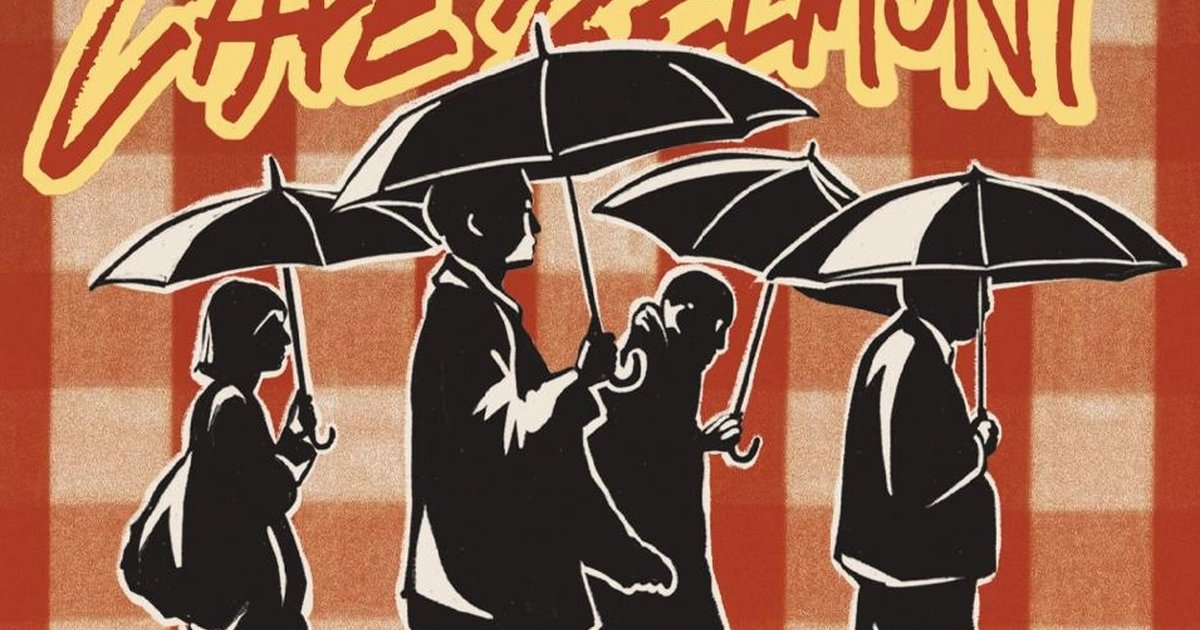
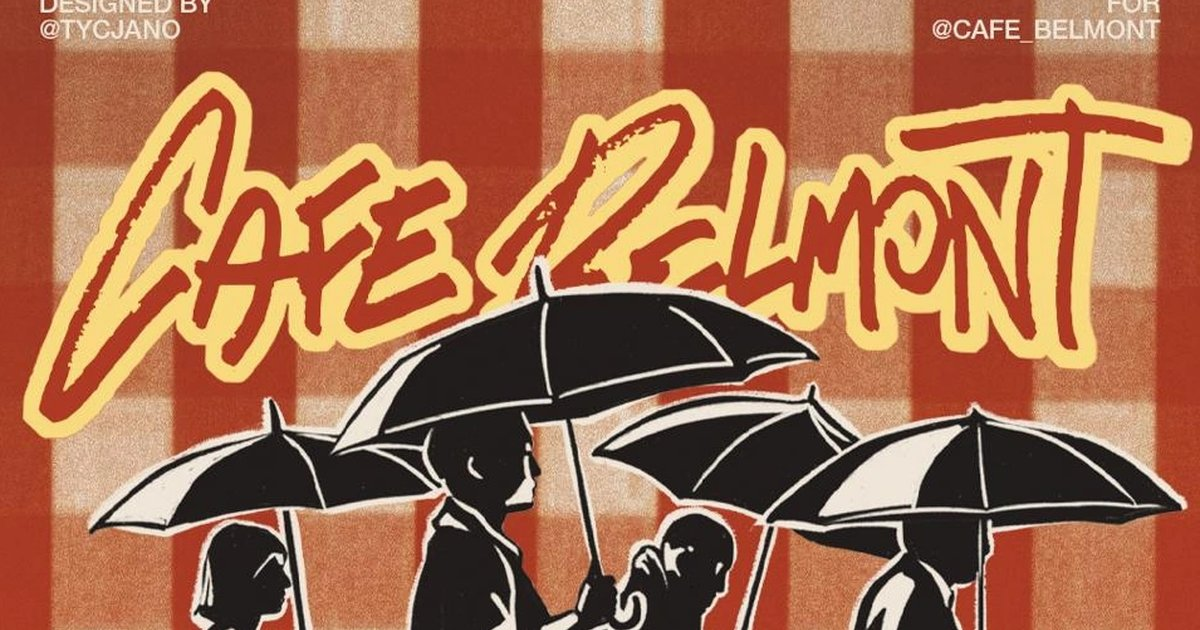
Hero: kwadratowy kadr (napis Café Belmont widoczny), OG od góry; alty zdjęć z sesji z nazwami menu jesiennego

diff --git a/app/copy.ts b/app/copy.ts
@@ -126,26 +126,26 @@ const G = '/images/gallery/';
 const GALLERY_PL = [
   { src: G + 'counter-sign-pour.webp', alt: 'Barista nalewa mleko do matcha latte za ladą Café Belmont, nad nim czerwony napis Café Belmont' },
   { src: G + 'matcha-pour-board.webp', alt: 'Świeżo ubita matcha Yume przelewana z czarki do szklanki, obok bambusowy chasen' },
-  { src: G + 'people-matcha-wall.webp', alt: 'Szklanka iced matcha latte uniesiona na tle ściany z plakatami w Café Belmont' },
+  { src: G + 'people-matcha-wall.webp', alt: 'Jesienna Szarlotkowa Matcha Latte w szklance na lodzie, uniesiona na tle ściany z plakatami w Café Belmont' },
   { src: G + 'interior-window.webp', alt: 'Wnętrze Café Belmont: ceglane ściany, lampa nad stolikiem i goście przy oknie na Kazimierz' },
-  { src: G + 'people-brick-matcha.webp', alt: 'Gość z iced matcha latte na tle ceglanej ściany' },
+  { src: G + 'people-brick-matcha.webp', alt: 'Jesienna Chai Matcha w szklance – gość Café Belmont na tle ceglanej ściany' },
   { src: G + 'window-seat.webp', alt: 'Goście przy oknie Café Belmont, ceglana ściana i drewniana ławka' },
-  { src: G + 'people-iced-poster.webp', alt: 'Mrożona kawa w szklance na tle plakatu w Café Belmont' },
+  { src: G + 'people-iced-poster.webp', alt: 'Jesienna Banana Bread & Maple Foam Iced Latte z zimną pianką cynamonowo-klonową na tle plakatu w Café Belmont' },
   { src: G + 'counter-cups.webp', alt: 'Lada Café Belmont ze stosem kubków i czerwonym napisem Café Belmont na ścianie' },
-  { src: G + 'people-beanie-matcha.webp', alt: 'Gość w czapce z matcha latte w Café Belmont' },
-  { src: G + 'people-curly-latte.webp', alt: 'Gość w okularach z latte na tle ściany z plakatami' },
+  { src: G + 'people-beanie-matcha.webp', alt: 'Jesienna Szarlotkowa Matcha Latte z prażonymi jabłkami – gość w czapce w Café Belmont' },
+  { src: G + 'people-curly-latte.webp', alt: 'Jesienne Daktylowo-Imbirowe Latte na espresso specialty – gość w okularach na tle ściany z plakatami' },
 ];
 const GALLERY_EN = [
   { src: G + 'counter-sign-pour.webp', alt: 'Barista pouring milk into a matcha latte behind the Café Belmont counter, red Café Belmont sign above' },
   { src: G + 'matcha-pour-board.webp', alt: 'Freshly whisked Yume matcha poured from the bowl into a glass, bamboo chasen beside it' },
-  { src: G + 'people-matcha-wall.webp', alt: 'A glass of iced matcha latte raised against the poster wall at Café Belmont' },
+  { src: G + 'people-matcha-wall.webp', alt: 'Autumn Apple Pie Matcha Latte over ice, raised against the poster wall at Café Belmont' },
   { src: G + 'interior-window.webp', alt: 'Inside Café Belmont: brick walls, a lamp over the table and guests by the window onto Kazimierz' },
-  { src: G + 'people-brick-matcha.webp', alt: 'Guest with an iced matcha latte against a brick wall' },
+  { src: G + 'people-brick-matcha.webp', alt: 'Autumn Chai Matcha in a glass – a Café Belmont guest against a brick wall' },
   { src: G + 'window-seat.webp', alt: 'Guests by the Café Belmont window, brick wall and wooden bench' },
-  { src: G + 'people-iced-poster.webp', alt: 'Iced coffee in a glass against a poster at Café Belmont' },
+  { src: G + 'people-iced-poster.webp', alt: 'Autumn Banana Bread & Maple Foam Iced Latte with cold cinnamon-maple foam against a poster at Café Belmont' },
   { src: G + 'counter-cups.webp', alt: 'The Café Belmont counter with a stack of cups and the red Café Belmont sign on the wall' },
-  { src: G + 'people-beanie-matcha.webp', alt: 'Guest in a beanie with a matcha latte at Café Belmont' },
-  { src: G + 'people-curly-latte.webp', alt: 'Guest in glasses with a latte against the poster wall' },
+  { src: G + 'people-beanie-matcha.webp', alt: 'Autumn Apple Pie Matcha Latte with roasted apples – guest in a beanie at Café Belmont' },
+  { src: G + 'people-curly-latte.webp', alt: 'Autumn Ginger Date Latte on specialty espresso – guest in glasses against the poster wall' },
 ];
 
 const pl: Copy = {

diff --git a/app/Home.tsx b/app/Home.tsx
@@ -230,7 +230,7 @@ export default function Home({ t }: { t: Copy }) {
                   alt={t.hero.artAlt}
                   className="art-img"
                   width="440"
-                  height="330"
+                  height="440"
                  
                   {...({ fetchPriority: 'high' } as React.ImgHTMLAttributes<HTMLImageElement>)}
                 />

diff --git a/app/globals.css b/app/globals.css
@@ -463,7 +463,7 @@ p {
   background-color: transparent;
   overflow: hidden;
   border-radius: 2px;
-  aspect-ratio: 4 / 3;
+  aspect-ratio: 1 / 1; /* the illustration is square: keeps the "CAFÉ BELMONT" lettering at the top uncropped */
 }
 
 .art-img {
